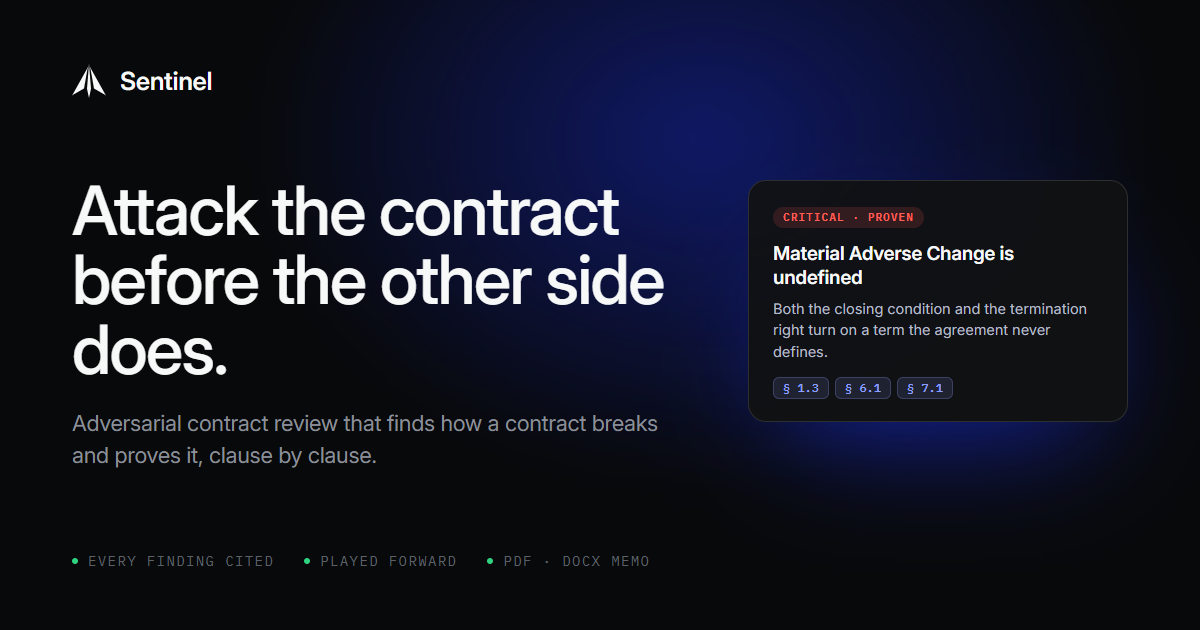
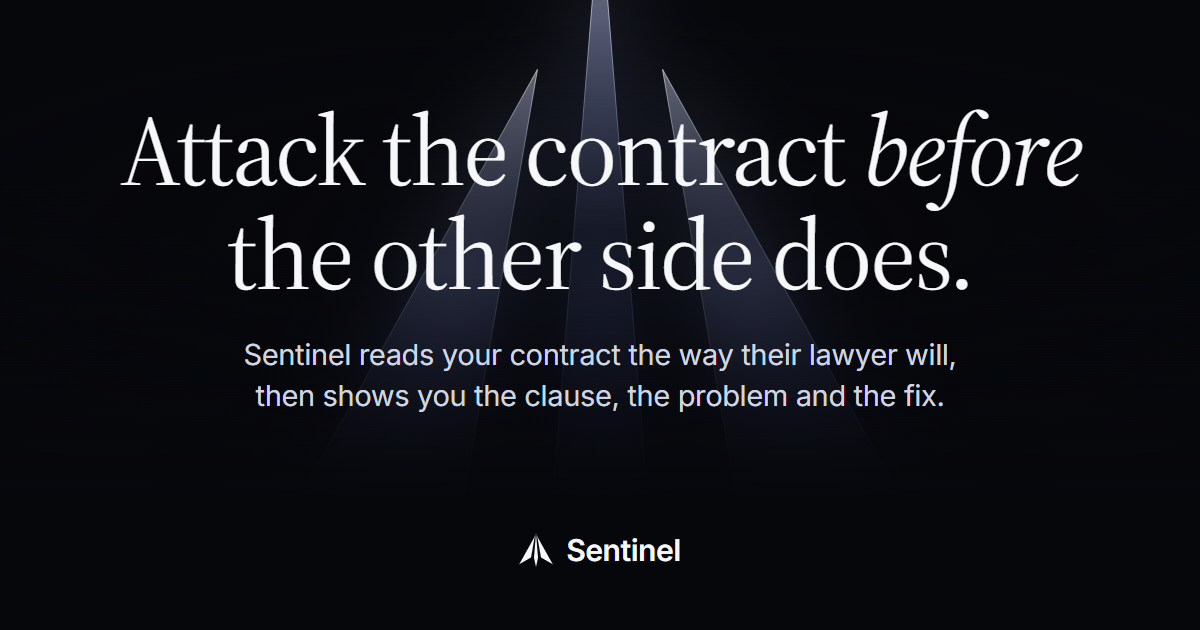
The link preview image in the new page's look: the mark as light, its headline and line; no "proves", no old finding card

diff --git a/tools/og/og.html b/tools/og/og.html
@@ -1,34 +1,30 @@
 <!DOCTYPE html>
-<!-- The social card (site/og.png, 1200x630). Render it with render.mjs. -->
+<!-- The social card (site/og.png, 1200x630): the home page's first screen, the mark as light behind its headline. Render it with render.mjs. -->
 <html lang="en"><head><meta charset="utf-8">
-<link href="https://fonts.googleapis.com/css2?family=Inter:opsz,wght@14..32,100..900&family=IBM+Plex+Mono:wght@400;500;600&display=swap" rel="stylesheet">
+<link href="../../site/v3/fonts/fonts.css" rel="stylesheet">
 <style>
   * { box-sizing: border-box; margin: 0; }
-  body { width: 1200px; height: 630px; overflow: hidden; background: #08090a; color: #f7f8f8; font-family: Inter, sans-serif; font-feature-settings: "cv01", "ss03"; -webkit-font-smoothing: antialiased; position: relative; }
-  .glow { position: absolute; left: 50%; top: -260px; width: 1300px; height: 1000px; transform: translateX(-42%); background: radial-gradient(50% 50% at 50% 40%, rgba(26, 47, 230, .42), transparent 70%); filter: blur(20px); }
-  .brand { position: absolute; left: 72px; top: 64px; display: flex; align-items: center; gap: 14px; font-size: 25px; font-weight: 590; letter-spacing: -.012em; }
+  body { position: relative; width: 1200px; height: 630px; overflow: hidden; background: #06070b; color: #f6f7f9; font-family: Inter, sans-serif; text-align: center; -webkit-font-smoothing: antialiased; }
+  .blades { position: absolute; left: 50%; top: -96px; width: 1560px; height: 1560px; transform: translateX(-50%); }
+  .glow { filter: blur(40px); opacity: .55; }
+  .body { opacity: .8; }
+  .edge { opacity: .85; }
+  .veil { position: absolute; inset: 0; background:
+    radial-gradient(64% 220px at 50% 236px, rgba(6, 7, 11, .66), rgba(6, 7, 11, 0) 100%),
+    linear-gradient(180deg, rgba(6, 7, 11, 0) 42%, #06070b 80%),
+    radial-gradient(120% 560px at 50% 0, rgba(6, 7, 11, 0) 50%, #06070b 100%); }
+  .brand { position: absolute; left: 0; right: 0; bottom: 62px; display: flex; align-items: center; justify-content: center; gap: 13px; font-size: 30px; font-weight: 600; letter-spacing: -.014em; }
   .brand svg { width: 34px; height: 34px; }
-  h1 { position: absolute; left: 72px; top: 176px; width: 640px; font-size: 68px; line-height: 1.02; letter-spacing: -.024em; font-weight: 510; }
-  p { position: absolute; left: 72px; top: 408px; width: 600px; font-size: 22px; line-height: 1.45; color: #8a8f98; letter-spacing: -.011em; }
-  .card { position: absolute; right: 72px; top: 180px; width: 380px; padding: 24px 24px 22px; border-radius: 18px; background: rgba(16, 17, 18, .92); border: 1px solid rgba(255, 255, 255, .12); box-shadow: 0 50px 120px -40px rgba(26, 47, 230, .7); }
-  .sev { display: inline-block; padding: 5px 10px; border-radius: 999px; background: rgba(255, 95, 87, .14); color: #ff5f57; font: 600 11px/1 "IBM Plex Mono", monospace; letter-spacing: .1em; }
-  .card h2 { margin-top: 14px; font-size: 19px; line-height: 1.25; font-weight: 600; letter-spacing: -.014em; }
-  .card .sum { position: static; width: auto; margin-top: 8px; font-size: 14.5px; line-height: 1.5; color: #b6bcc6; }
-  .refs { display: flex; gap: 6px; margin-top: 14px; }
-  .refs span { padding: 4px 9px; border-radius: 6px; font: 500 12px/1 "IBM Plex Mono", monospace; color: #8ea0ff; background: rgba(142, 160, 255, .12); border: 1px solid rgba(142, 160, 255, .25); }
-  .facts { position: absolute; left: 72px; bottom: 62px; display: flex; gap: 30px; font: 400 14px/1 "IBM Plex Mono", monospace; letter-spacing: .1em; text-transform: uppercase; color: #5c6068; }
-  .facts span::before { content: ""; display: inline-block; width: 6px; height: 6px; margin-right: 10px; border-radius: 50%; background: #2fd27f; vertical-align: 2px; }
+  h1 { position: absolute; left: 60px; right: 60px; top: 98px; font: 400 100px/1.04 "Source Serif 4", Georgia, serif; font-optical-sizing: auto; letter-spacing: -.022em; text-wrap: balance; }
+  h1 i { font-style: italic; }
+  p { position: absolute; left: 170px; right: 170px; top: 334px; font-size: 29px; line-height: 1.42; letter-spacing: -.012em; color: #d0d6e0; text-wrap: balance; }
 </style></head>
 <body>
-  <div class="glow"></div>
+  <svg class="blades glow" viewBox="0 0 100 100"><defs><linearGradient id="bg1" x1="0" y1="0" x2="0" y2="1"><stop offset="0" stop-color="#c3cfff" stop-opacity=".82"/><stop offset=".3" stop-color="#7c90ff" stop-opacity=".34"/><stop offset=".62" stop-color="#3048e8" stop-opacity=".1"/><stop offset=".86" stop-color="#1a2fe6" stop-opacity="0"/></linearGradient></defs><path fill="url(#bg1)" d="M45.99 10.61L0.76 91.88L35.45 71.76Z"/><path fill="url(#bg1)" d="M50 0L55.82 72.89L50 100L44.18 72.89Z"/><path fill="url(#bg1)" d="M54.01 10.61L64.55 71.76L99.24 91.88Z"/></svg>
+  <svg class="blades body" viewBox="0 0 100 100"><defs><linearGradient id="bg2" x1="0" y1="0" x2="0" y2="1"><stop offset="0" stop-color="#dbe2ff" stop-opacity=".62"/><stop offset=".24" stop-color="#8fa2ff" stop-opacity=".2"/><stop offset=".56" stop-color="#4d6bff" stop-opacity=".06"/><stop offset=".8" stop-color="#1a2fe6" stop-opacity="0"/></linearGradient></defs><path fill="url(#bg2)" d="M45.99 10.61L0.76 91.88L35.45 71.76Z"/><path fill="url(#bg2)" d="M50 0L55.82 72.89L50 100L44.18 72.89Z"/><path fill="url(#bg2)" d="M54.01 10.61L64.55 71.76L99.24 91.88Z"/></svg>
+  <svg class="blades edge" viewBox="0 0 100 100"><defs><linearGradient id="bg3" x1="0" y1="0" x2="0" y2="1"><stop offset="0" stop-color="#fff" stop-opacity=".9"/><stop offset=".26" stop-color="#b7c4ff" stop-opacity=".34"/><stop offset=".6" stop-color="#8ea0ff" stop-opacity=".1"/><stop offset=".84" stop-color="#8ea0ff" stop-opacity="0"/></linearGradient></defs><path fill="none" stroke="url(#bg3)" stroke-width=".06" d="M45.99 10.61L0.76 91.88L35.45 71.76Z"/><path fill="none" stroke="url(#bg3)" stroke-width=".06" d="M50 0L55.82 72.89L50 100L44.18 72.89Z"/><path fill="none" stroke="url(#bg3)" stroke-width=".06" d="M54.01 10.61L64.55 71.76L99.24 91.88Z"/></svg>
+  <div class="veil"></div>
   <div class="brand"><svg viewBox="0 0 100 100"><path fill="currentColor" d="M45.99 10.61L0.76 91.88L35.45 71.76ZM50 0L55.82 72.89L50 100L44.18 72.89ZM54.01 10.61L64.55 71.76L99.24 91.88Z"/></svg>Sentinel</div>
-  <h1>Attack the contract before the other side does.</h1>
-  <p>Adversarial contract review that finds how a contract breaks and proves it, clause by clause.</p>
-  <div class="card">
-    <span class="sev">CRITICAL · PROVEN</span>
-    <h2>Material Adverse Change is undefined</h2>
-    <div class="sum">Both the closing condition and the termination right turn on a term the agreement never defines.</div>
-    <div class="refs"><span>§ 1.3</span><span>§ 6.1</span><span>§ 7.1</span></div>
-  </div>
-  <div class="facts"><span>Every finding cited</span><span>Played forward</span><span>PDF · DOCX memo</span></div>
+  <h1>Attack the contract <i>before</i> the other side does.</h1>
+  <p>Sentinel reads your contract the way their lawyer will, then shows you the clause, the problem and the fix.</p>
 </body></html>

diff --git a/site/index.html b/site/index.html
@@ -16,11 +16,14 @@
 <meta property="og:url" content="https://sentinel-lai.com/">
 <meta property="og:title" content="Sentinel — Attack the contract before the other side does">
 <meta property="og:description" content="Adversarial contract review that finds how a contract breaks and shows you the clause.">
-<meta property="og:image" content="https://sentinel-lai.com/og.png">
+<meta property="og:image" content="https://sentinel-lai.com/og.png?v=2">
+<meta property="og:image:width" content="1200">
+<meta property="og:image:height" content="630">
+<meta property="og:image:alt" content="Attack the contract before the other side does.">
 <meta name="twitter:card" content="summary_large_image">
 <meta name="twitter:title" content="Sentinel — Attack the contract before the other side does">
 <meta name="twitter:description" content="Adversarial contract review that finds how a contract breaks and shows you the clause.">
-<meta name="twitter:image" content="https://sentinel-lai.com/og.png">
+<meta name="twitter:image" content="https://sentinel-lai.com/og.png?v=2">
 <link rel="icon" href="/favicon.ico" sizes="32x32">
 <link rel="icon" href="/favicon.svg" type="image/svg+xml">
 <link rel="apple-touch-icon" href="/icons/icon-180.png">

diff --git a/site/v3/index.html b/site/v3/index.html
@@ -16,11 +16,14 @@
 <meta property="og:url" content="https://sentinel-lai.com/">
 <meta property="og:title" content="Sentinel — Attack the contract before the other side does">
 <meta property="og:description" content="Adversarial contract review that finds how a contract breaks and shows you the clause.">
-<meta property="og:image" content="https://sentinel-lai.com/og.png">
+<meta property="og:image" content="https://sentinel-lai.com/og.png?v=2">
+<meta property="og:image:width" content="1200">
+<meta property="og:image:height" content="630">
+<meta property="og:image:alt" content="Attack the contract before the other side does.">
 <meta name="twitter:card" content="summary_large_image">
 <meta name="twitter:title" content="Sentinel — Attack the contract before the other side does">
 <meta name="twitter:description" content="Adversarial contract review that finds how a contract breaks and shows you the clause.">
-<meta name="twitter:image" content="https://sentinel-lai.com/og.png">
+<meta name="twitter:image" content="https://sentinel-lai.com/og.png?v=2">
 <link rel="icon" href="/favicon.ico" sizes="32x32">
 <link rel="icon" href="/favicon.svg" type="image/svg+xml">
 <link rel="apple-touch-icon" href="/icons/icon-180.png">
